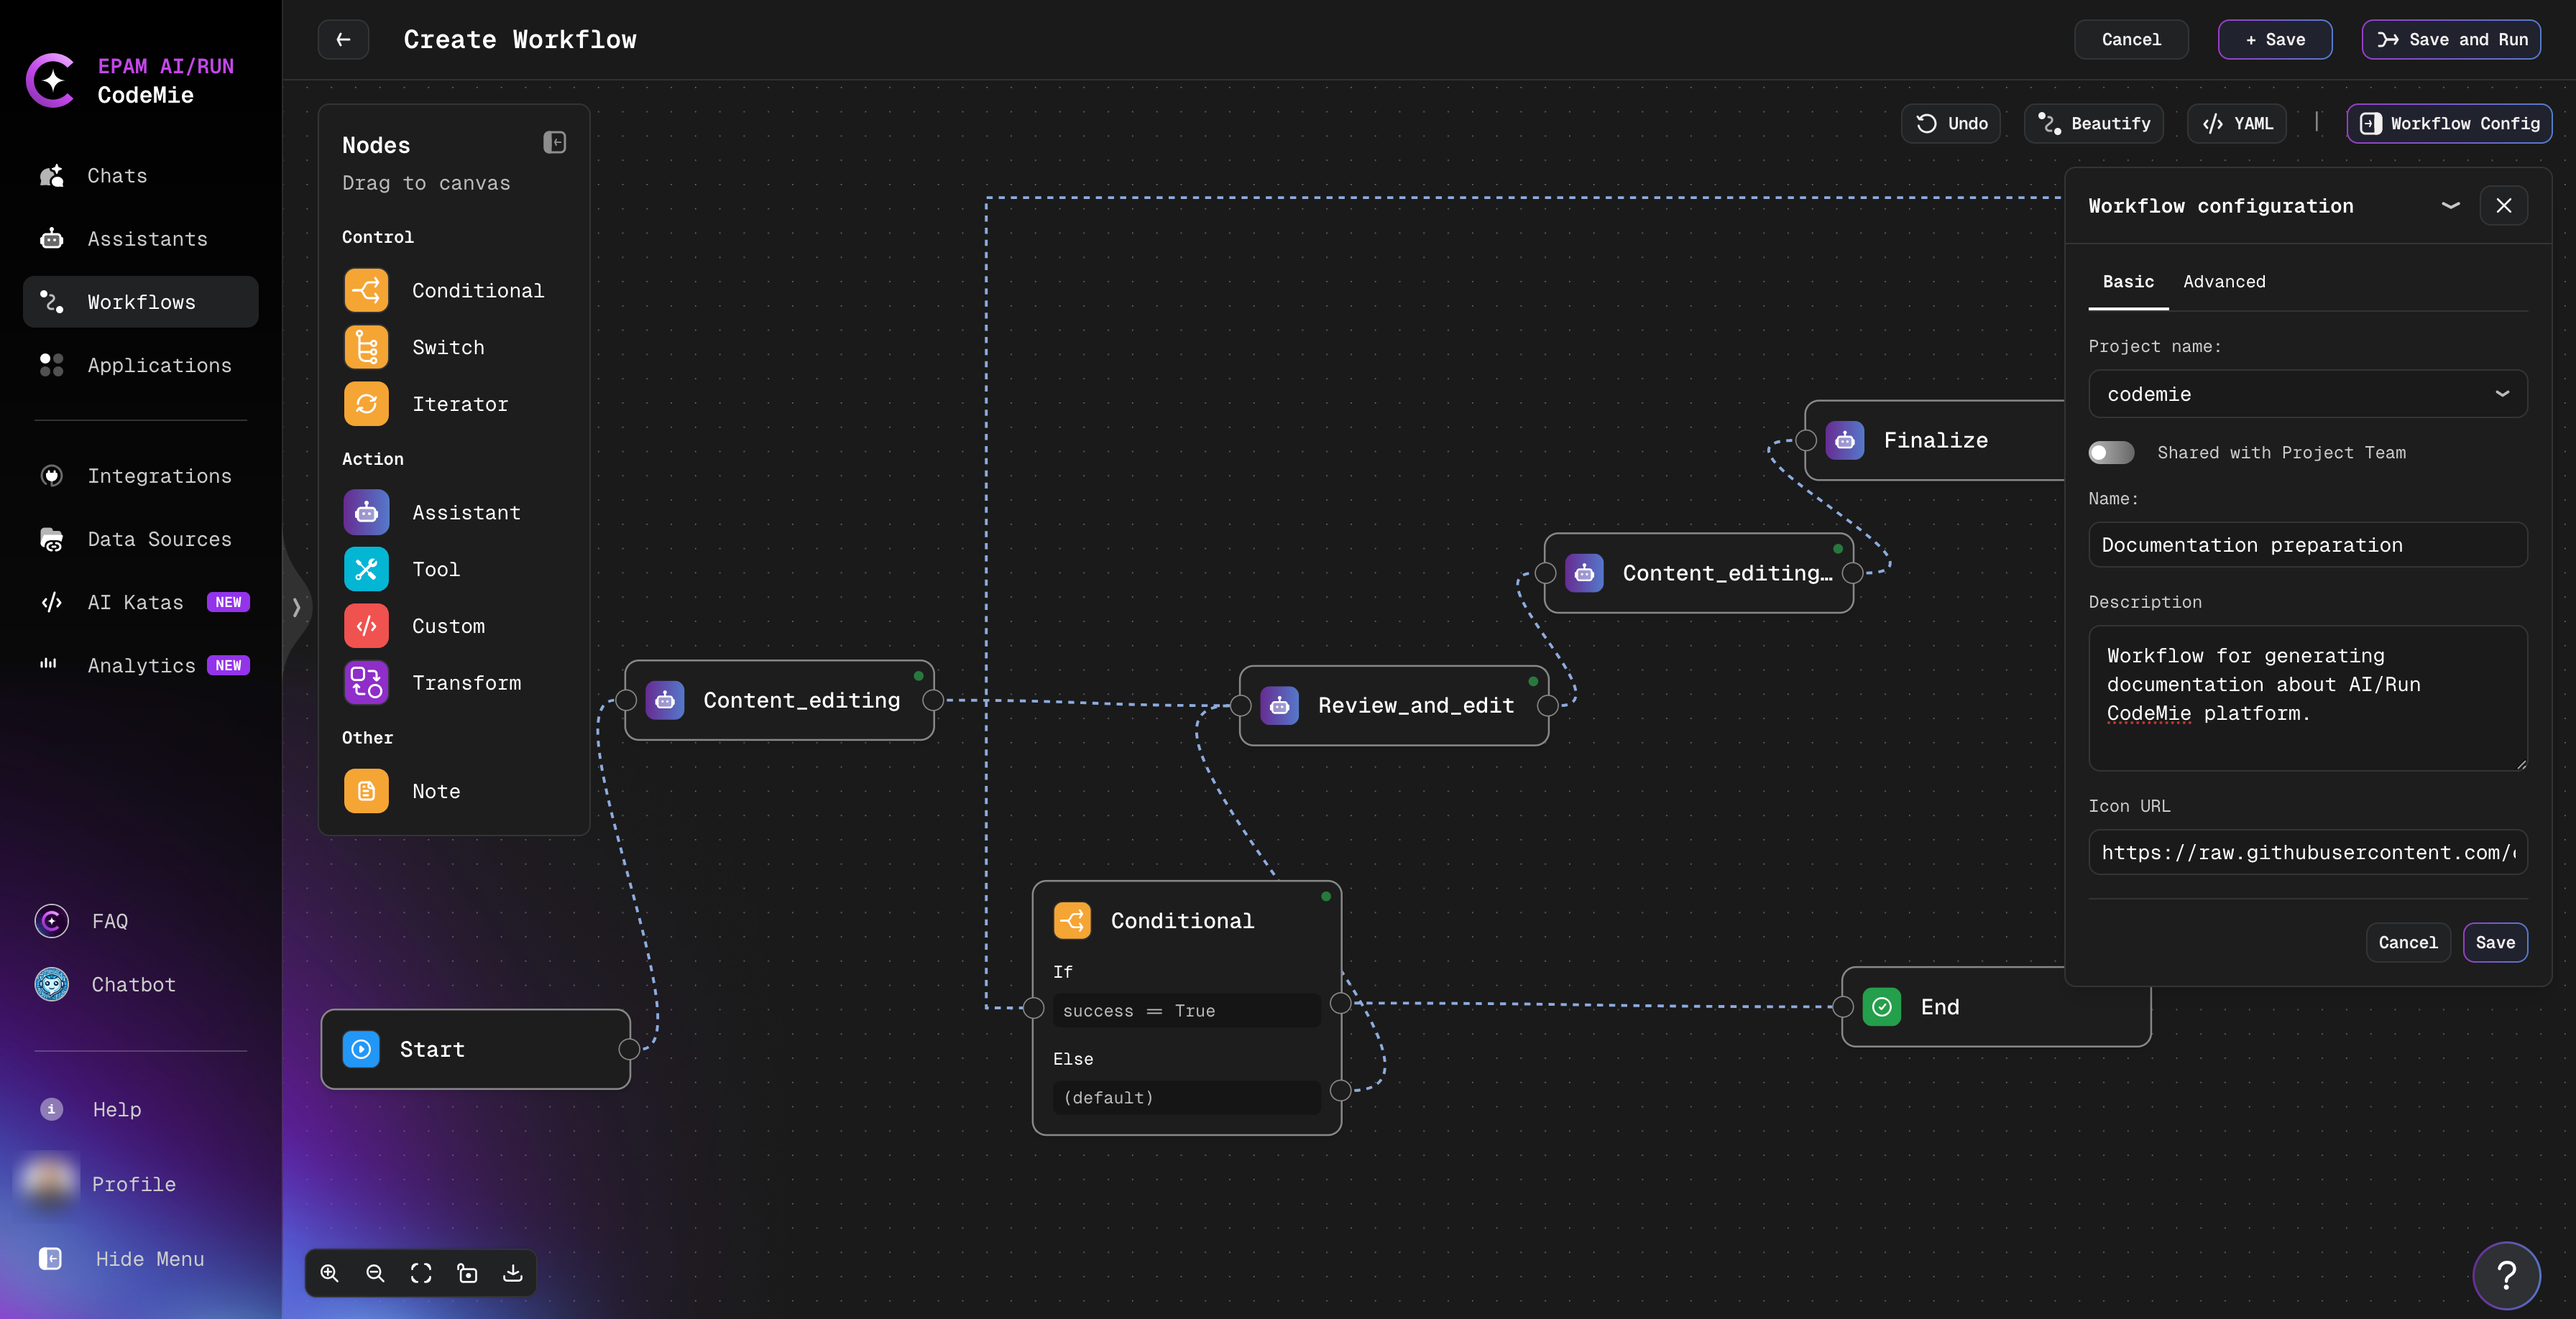
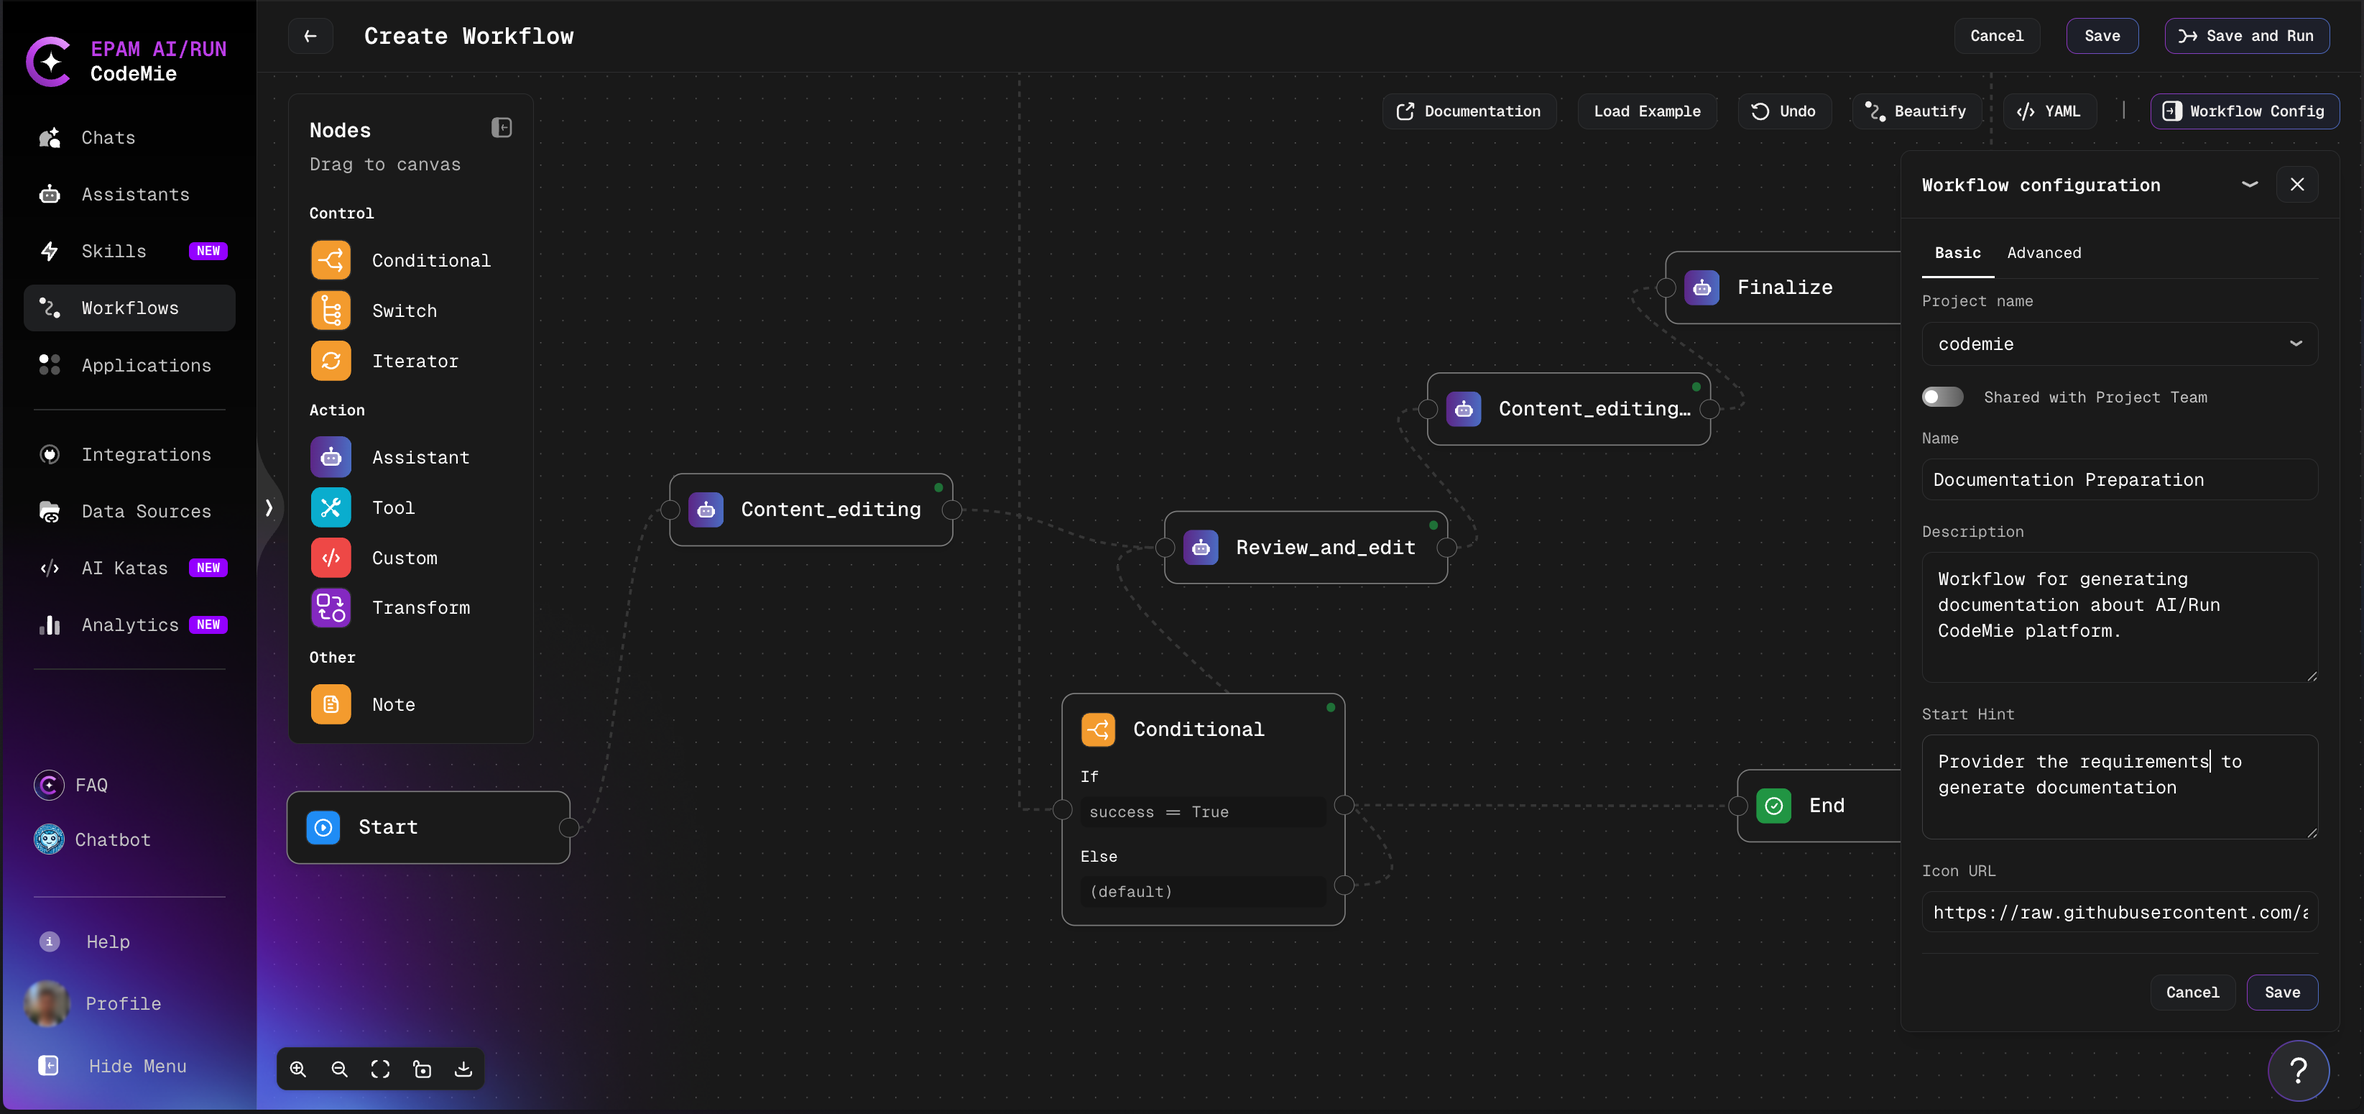
docs(user-guide): replace basic config screenshot with updated version

diff --git a/docs/user-guide/workflows/create-workflow.md b/docs/user-guide/workflows/create-workflow.md
@@ -97,7 +97,7 @@ Click the **Workflow Config** button to access configuration options:
 
 **Basic Tab:**
 
-![Basic Configuration](./images/workflow-config-start-hint.png)
+![Basic Configuration](./images/visual-editor-basic-config.png)
 
 Configure essential workflow settings:
 
